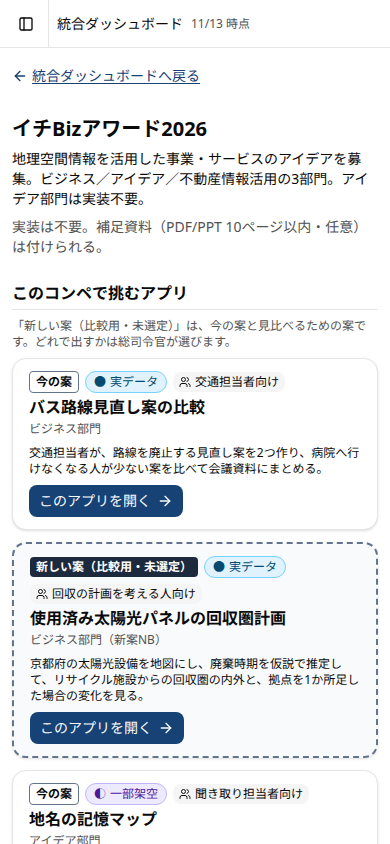
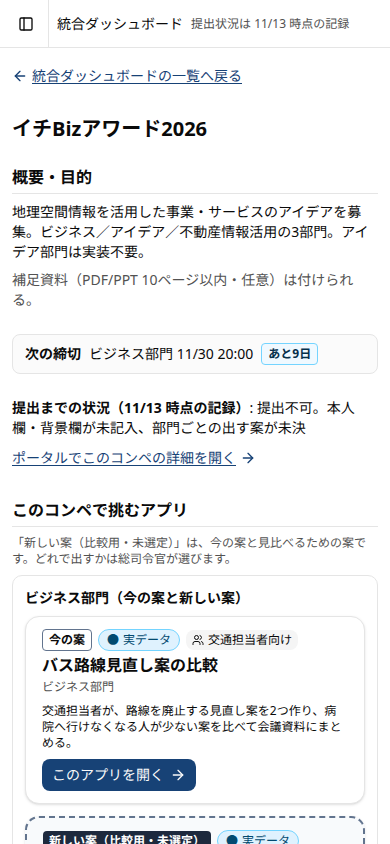
工兵: コンペ概要ページのデザイン審査 中5・軽微L1/L3/L5 を修正

diff --git a/contests/dashboard/src/pages/ContestPage.tsx b/contests/dashboard/src/pages/ContestPage.tsx
@@ -5,7 +5,12 @@ import { DataBadge } from '@/components/shared/DataBadge'
 import { Remaining } from '@/components/shared/Remaining'
 import { CONTESTS, NEW_PLAN_LABEL, getApp, isNewPlan, orderedAppsByContest, type AppMeta } from '@/apps/registry'
 import { CONTEST_INFO } from '@/apps/contests-info'
-import { appUrl, portalUrl } from '@/lib/data'
+import { appUrl, portalOpenUrl, portalUrl } from '@/lib/data'
+import { CONTEST_STATUS } from '@/data/status'
+import { nextDeadline } from '@/apps/contests-info'
+import { asOf } from '@/pages/Progress'
+
+const NO_DESC = '要項に説明の記載なし。'
 
 function Section({ title, children, id }: { title: string; children: React.ReactNode; id: string }) {
   return (
@@ -24,7 +29,7 @@ function Bullets({ items }: { items: string[] }) {
   )
 }
 
-function AppLinkCard({ a, paired }: { a: AppMeta; paired: boolean }) {
+function AppLinkCard({ a }: { a: AppMeta }) {
   const isNew = isNewPlan(a)
   return (
     <Card data-app-card={a.id} className={`flex flex-col gap-2 py-3 ${isNew ? 'border-2 border-dashed border-slate-500 bg-slate-50' : ''}`}>
@@ -33,7 +38,7 @@ function AppLinkCard({ a, paired }: { a: AppMeta; paired: boolean }) {
           {isNew && (
             <span className="rounded bg-slate-800 px-1.5 py-0.5 text-xs font-bold text-white" data-testid="new-plan-tag">{NEW_PLAN_LABEL}</span>
           )}
-          {!isNew && paired && (
+          {!isNew && (
             <span className="rounded border border-slate-500 px-1.5 py-0.5 text-xs font-bold">今の案</span>
           )}
           <DataBadge kind={a.dataKind} />
@@ -70,25 +75,57 @@ export default function ContestPage({ contestId }: { contestId: string }) {
   }
   const apps = orderedAppsByContest(meta.id)
   const hasNew = apps.some(isNewPlan)
+  const status = CONTEST_STATUS[meta.id]
+  const next = nextDeadline(info)
+  // 今の案の直後に対になる新しい案を置く組。組ごとに囲んで見せる
+  const groups = apps.filter((a) => !isNewPlan(a)).map((cur) => ({ cur, items: [cur, ...apps.filter((x) => isNewPlan(x) && x.pairWith === cur.id)] }))
+  const grouped = new Set(groups.flatMap((g) => g.items.map((x) => x.id)))
+  const orphans = apps.filter((a) => !grouped.has(a.id))
+  const implementation = info.summary.includes('実装不要') ? info.implementation.replace(/^実装は不要。/, '') : info.implementation
   const also = (info.alsoApps ?? []).map((x) => ({ ...x, app: getApp(x.id) })).filter((x) => x.app)
   return (
     <article className="mx-auto max-w-5xl space-y-6">
       <a href={portalUrl()} className="inline-flex min-h-8 items-center gap-1 text-sm font-medium text-primary underline underline-offset-2" data-testid="back-portal">
         <ArrowLeft className="size-4" aria-hidden />
-        統合ダッシュボードへ戻る
+        統合ダッシュボードの一覧へ戻る
       </a>
       <header className="space-y-2">
         <h1 className="text-xl font-bold leading-tight">{meta.name}</h1>
-        <p className="text-sm" data-testid="contest-summary">{info.summary}</p>
-        <p className="text-sm text-muted-foreground">{info.implementation}</p>
       </header>
+
+      <Section id="contest-overview" title="概要・目的">
+        <p className="text-sm" data-testid="contest-summary">{info.summary}</p>
+        <p className="text-sm text-muted-foreground">{implementation}</p>
+      </Section>
+
+      {/* 次の締切（残り日数は今日から数える） */}
+      <p className="flex flex-wrap items-center gap-x-2 gap-y-1 rounded-md border bg-muted/40 px-3 py-2 text-sm" data-testid="next-deadline">
+        <span className="font-bold">次の締切</span>
+        <span>{next.label} {next.text}</span>
+        <Remaining at={next.at} />
+      </p>
+
+      {/* 提出までの状況（ポータルの詳細欄と同じ文言）と、ポータルでそのコンペの詳細を開くリンク */}
+      <p className="space-y-1 text-sm" data-testid="contest-status">
+        <span className="block"><span className="font-bold">提出までの状況（{asOf} 時点の記録）</span>: {status.gap}</span>
+        <a href={portalOpenUrl(meta.id)} className="inline-flex min-h-8 items-center gap-1 font-medium text-primary underline underline-offset-2" data-testid="open-in-portal">
+          ポータルでこのコンペの詳細を開く <ArrowRight className="size-4" aria-hidden />
+        </a>
+      </p>
 
       <Section id="contest-apps" title="このコンペで挑むアプリ">
         {hasNew && (
           <p className="text-xs text-muted-foreground">「{NEW_PLAN_LABEL}」は、今の案と見比べるための案です。どれで出すかは総司令官が選びます。</p>
         )}
-        <div className="grid gap-3 sm:grid-cols-2 xl:grid-cols-3">
-          {apps.map((a) => <AppLinkCard key={a.id} a={a} paired={apps.some((x) => isNewPlan(x) && x.pairWith === a.id)} />)}
+        <div className="space-y-4">
+          {[...groups.map((g) => ({ key: g.cur.id, title: g.cur.division, items: g.items })), ...(orphans.length ? [{ key: 'other', title: 'その他', items: orphans }] : [])].map((g) => (
+            <div key={g.key} className="rounded-lg border p-3" data-app-group={g.key}>
+              <h3 className="mb-2 text-sm font-bold">{g.title}{g.items.length > 1 ? '（今の案と新しい案）' : ''}</h3>
+              <div className="grid gap-3 sm:grid-cols-2">
+                {g.items.map((a) => <AppLinkCard key={a.id} a={a} />)}
+              </div>
+            </div>
+          ))}
         </div>
         {also.map((x) => (
           <p key={x.id} className="text-sm">
@@ -111,17 +148,18 @@ export default function ContestPage({ contestId }: { contestId: string }) {
         </ul>
       </Section>
 
-      <Section id="contest-criteria" title={`審査基準（${info.criteriaTitle}）`}>
+      <Section id="contest-criteria" title={info.criteriaTitle.includes('審査基準') ? info.criteriaTitle : '審査基準'}>
+        {!info.criteriaTitle.includes('審査基準') && <p className="text-xs text-muted-foreground">{info.criteriaTitle}</p>}
         <ul className="space-y-1.5 text-sm">
           {info.criteria.map((c) => (
             <li key={c.name}>
               <span className="font-medium">{c.name}</span>
               {c.tag && <span className="ml-1.5 rounded border px-1 py-px text-xs">{c.tag}</span>}
-              <span className="block text-muted-foreground">{c.desc}</span>
+              {c.desc !== NO_DESC && <span className="block text-muted-foreground">{c.desc}</span>}
             </li>
           ))}
         </ul>
-        <p className="text-xs text-muted-foreground">{info.criteriaNote}</p>
+        <p className="text-xs text-muted-foreground">{info.criteria.some((c) => c.desc === NO_DESC) && '各項目の説明は要項に記載なし。'}{info.criteriaNote}</p>
       </Section>
 
       <Section id="contest-conditions" title="主な応募条件・注意点">

diff --git a/contests/dashboard/src/components/layout/AppShell.tsx b/contests/dashboard/src/components/layout/AppShell.tsx
@@ -1,4 +1,4 @@
-import { useState } from 'react'
+import { useEffect, useState } from 'react'
 import { ChevronRight } from 'lucide-react'
 import { Separator } from '@/components/ui/separator'
 import {
@@ -28,6 +28,14 @@ function PortalSidebar({ activeContest }: { activeContest?: string }) {
   const groups = contestsByDeadline()
     .map((i) => CONTESTS.find((c) => c.id === i.id)!)
     .map((c) => ({ c, apps: orderedAppsByContest(c.id).filter((a) => matchesAppQuery(a, q)) }))
+  // コンペ画面を開いたとき、そのコンペ名がサイドバー内で見える位置まで、サイドバーの中だけをスクロールする（本文は動かさない）
+  useEffect(() => {
+    if (!activeContest) return
+    const link = document.querySelector<HTMLElement>(`[data-contest-link="${activeContest}"]`)
+    const box = link?.closest<HTMLElement>('[data-sidebar="content"]')
+    if (!link || !box) return
+    box.scrollTop += link.getBoundingClientRect().top - box.getBoundingClientRect().top - 8
+  }, [activeContest])
   const hits = groups.reduce((n, g) => n + g.apps.length, 0)
   return (
     <Sidebar>
@@ -59,16 +67,18 @@ function PortalSidebar({ activeContest }: { activeContest?: string }) {
         {/* 本文の一覧と同じ、締切の近い順 */}
         {groups.filter((g) => g.apps.length).map(({ c, apps }) => (
           <SidebarGroup key={c.id}>
-            <SidebarGroupLabel asChild className="h-auto whitespace-normal py-1 leading-tight text-sidebar-foreground underline underline-offset-2 hover:bg-sidebar-accent">
+            <SidebarGroupLabel asChild className={`h-auto min-h-10 whitespace-normal border-l-4 py-1.5 text-sm font-bold leading-tight text-sidebar-foreground underline underline-offset-2 hover:bg-sidebar-accent ${activeContest === c.id ? 'border-primary bg-sidebar-accent' : 'border-transparent'}`}>
               <a
                 href={contestUrl(c.id)}
                 data-contest-link={c.id}
                 aria-current={activeContest === c.id ? 'page' : undefined}
                 title={`${c.name}の概要・目的・審査基準を見る`}
-                className={activeContest === c.id ? 'font-bold' : undefined}
               >
                 {c.name}
-                <ChevronRight className="ml-auto size-3 shrink-0" aria-hidden />
+                <span className="ml-auto flex shrink-0 items-center gap-0.5 pl-1 text-xs font-normal no-underline">
+                  {activeContest === c.id ? '表示中' : '概要'}
+                  <ChevronRight className="size-4" aria-hidden />
+                </span>
               </a>
             </SidebarGroupLabel>
             <SidebarGroupContent>
@@ -112,7 +122,7 @@ export function AppShell({ children, activeContest }: { children: React.ReactNod
             <SidebarTrigger aria-label="メニューを開閉" />
             <Separator orientation="vertical" className="h-5" />
             <a href={portalUrl()} className="text-sm font-medium hover:underline">統合ダッシュボード</a>
-            <span className="text-xs text-muted-foreground">{asOf} 時点</span>
+            <span className="text-xs text-muted-foreground">提出状況は {asOf} 時点の記録</span>
           </header>
           <main className="min-w-0 flex-1 p-3 md:p-6">{children}</main>
         </SidebarInset>

diff --git a/contests/dashboard/src/components/layout/StandaloneShell.tsx b/contests/dashboard/src/components/layout/StandaloneShell.tsx
@@ -52,7 +52,7 @@ function ShellBody({ appId, children }: { appId: string; children: ReactNode }) 
               <a
                 href={contestUrl(contest.id)}
                 data-testid="contest-link"
-                className="shrink-0 rounded-md px-1.5 py-0.5 text-xs font-medium text-primary underline underline-offset-2 hover:bg-accent"
+                className="inline-flex min-h-11 shrink-0 items-center rounded-md px-2 text-xs font-medium text-primary underline underline-offset-2 hover:bg-accent md:min-h-8"
               >
                 {contest.short}の概要
               </a>
@@ -77,7 +77,7 @@ function ShellBody({ appId, children }: { appId: string; children: ReactNode }) 
                 key={n.id}
                 href={appUrl(n.id)}
                 data-testid="compare-new-link"
-                className="shrink-0 rounded-md px-1.5 py-0.5 text-xs font-medium text-primary underline underline-offset-2 hover:bg-accent"
+                className="inline-flex min-h-11 shrink-0 items-center rounded-md px-2 text-xs font-medium text-primary underline underline-offset-2 hover:bg-accent md:min-h-8"
               >
                 新案「{n.name}」と見比べる
               </a>
@@ -88,7 +88,7 @@ function ShellBody({ appId, children }: { appId: string; children: ReactNode }) 
                 href={appUrl(n.id)}
                 data-testid="also-compared-link"
                 title={`「${n.name}」と見比べる`}
-                className="shrink-0 rounded-md px-1.5 py-0.5 text-xs font-medium text-primary underline underline-offset-2 hover:bg-accent"
+                className="inline-flex min-h-11 shrink-0 items-center rounded-md px-2 text-xs font-medium text-primary underline underline-offset-2 hover:bg-accent md:min-h-8"
               >
                 「{n.name}」と見比べる
               </a>

diff --git a/contests/dashboard/src/lib/data.ts b/contests/dashboard/src/lib/data.ts
@@ -13,6 +13,11 @@ export function portalUrl(): string {
   return `${siteRoot()}index.html`
 }
 
+/** ポータルで、そのコンペの詳細を開いた状態の URL（既存の #open=<id> 形式） */
+export function portalOpenUrl(contestId: string): string {
+  return `${siteRoot()}index.html#open=${contestId}`
+}
+
 /** ?from=<コンペ id> で開かれたとき、そのコンペ id（戻り先のタブ用）。知らない値は無視する */
 export function fromContest(): string | undefined {
   if (typeof window === 'undefined') return undefined
